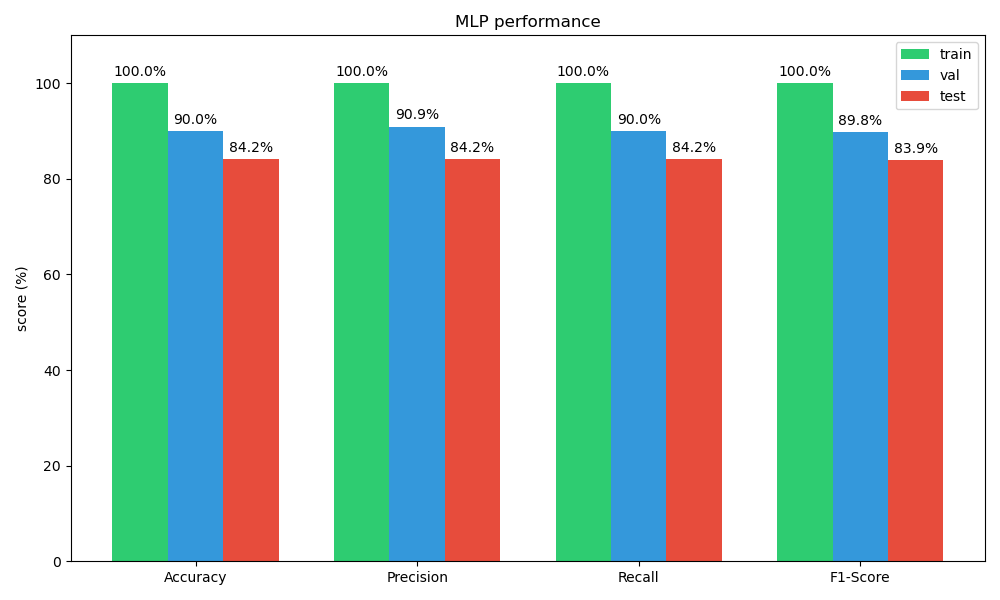
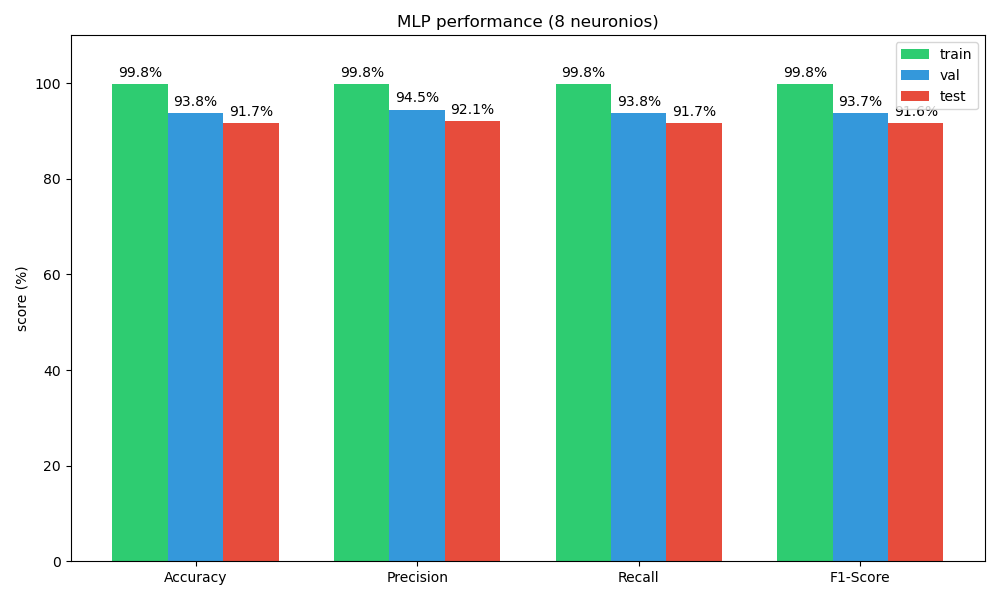
game 2

diff --git a/game2.py b/game2.py
@@ -172,8 +172,18 @@ def predict_ensemble(models, board, metrics, true_class):
     saida += f"[PREVISÃO DO ENSEMBLE]   => {resultado_final}\n"
     saida += f"[Votos Individuais] {detalhes}\n\n"
 
+    # saida += "--- PLACAR DE DESEMPENHO DA IA ---\n"
+    # # Printa o Ensemble primeiro, depois os modelos individuais
+    # ordem_print = ["Ensemble"] + [m[0] for m in models]
+    # for name in ordem_print:
+    #     if name in metrics:
+    #         acertos = metrics[name]["acertos"]
+    #         erros = metrics[name]["erros"]
+    #         total = acertos + erros
+    #         acc = (acertos / total) * 100 if total > 0 else 0
+    #         saida += f" {name:<15}: Acertos: {acertos:<2} | Erros: {erros:<2} | Acurácia: {acc:05.1f}%\n"
+
     saida += "--- PLACAR DE DESEMPENHO DA IA ---\n"
-    # Printa o Ensemble primeiro, depois os modelos individuais
     ordem_print = ["Ensemble"] + [m[0] for m in models]
     for name in ordem_print:
         if name in metrics:
@@ -183,7 +193,7 @@ def predict_ensemble(models, board, metrics, true_class):
             acc = (acertos / total) * 100 if total > 0 else 0
             saida += f" {name:<15}: Acertos: {acertos:<2} | Erros: {erros:<2} | Acurácia: {acc:05.1f}%\n"
 
-    return saida
+    return saida, vencedor_voto
 
 
 # --- LÓGICA DO JOGO ---
@@ -275,42 +285,42 @@ def play():
     # Imprime o tabuleiro vazio inicial e já faz a primeira predição do Ensemble
     print_board(board)
     true_class = get_true_class(board)
-    print(predict_ensemble(models, board, metrics, true_class))
+    #print(predict_ensemble(models, board, metrics, true_class))
+
+
+    out_text, ia_decision = predict_ensemble(models, board, metrics, true_class)
+    print(out_text)
 
     while True:
-        # ==========================================
-        # 1. TURNO DO JOGADOR (X)
-        # ==========================================
         player_move(board)
         print_board(board)
 
-        # Avalia o tabuleiro  após a sua jogada
         true_class = get_true_class(board)
-        print(predict_ensemble(models, board, metrics, true_class))
+        # print(predict_ensemble(models, board, metrics, true_class))
 
-        # Verifica se a sua jogada encerrou o jogo
-        if true_class == 0:
-            print("\n🎉 FIM DE JOGO! Você venceu o jogo!")
-            break
-        elif true_class == 2:
-            print("\n🤝 FIM DE JOGO! Deu velha! (Empate)")
+
+        out_text, ia_decision = predict_ensemble(models, board, metrics, true_class)
+        print(out_text)
+
+        if ia_decision != 3:
+            print(f"\n[x] IA decretou o FIM do jogo: {TARGET_CLASSES[ia_decision]}")
+            if ia_decision != true_class:
+                print(f"[!] A IA errou. true state do jogo era=: {TARGET_CLASSES[true_class]}")
             break
 
-        # ==========================================
-        # 2. TURNO DA MÁQUINA (O)
-        # ==========================================
+        # =============================
+        # essa parte eh o turno da maquina
         random_ai_move(board)
         print_board(board)
 
-        # Avalia o tabuleiro após a jogada da IA
         true_class = get_true_class(board)
-        print(predict_ensemble(models, board, metrics, true_class))
+        out_text, ia_decision = predict_ensemble(models, board, metrics, true_class)
+        print(out_text)
 
-        if true_class == 1:
-            print("\n💀 FIM DE JOGO! A IA venceu o jogo!")
-            break
-        elif true_class == 2:
-            print("\n🤝 FIM DE JOGO! Deu velha! (Empate)")
+        if ia_decision != 3: 
+            print(f"\n[x] IA decretou o FIM do jogo: {TARGET_CLASSES[ia_decision]}")
+            if ia_decision != true_class:
+                print(f"[!] A IA errou. true state do jogo era=: {TARGET_CLASSES[true_class]}")
             break
 
 

diff --git a/Models/MLP/plots.py b/Models/MLP/plots.py
@@ -4,9 +4,9 @@ import numpy as np
 # dados hardcoded da primeira run. 
 # TODO: talvez deva rodar de novo se preciso
 labels = ['Accuracy', 'Precision', 'Recall', 'F1-Score']
-training_vals = [100.00, 100.00, 100.00, 100.00]
-validation_vals = [90.00, 90.93, 90.00, 89.76]
-test_vals = [84.17, 84.17, 84.17, 83.88]
+training_vals = [99.83, 99.83, 99.83, 99.83]
+validation_vals = [93.75, 94.47, 93.75, 93.72]
+test_vals = [91.67, 92.08, 91.67, 91.62]
 
 x = np.arange(len(labels))
 width = 0.25
@@ -18,7 +18,7 @@ rects2 = ax.bar(x, validation_vals, width, label='val', color='#3498db')
 rects3 = ax.bar(x + width, test_vals, width, label='test', color='#e74c3c')
 
 ax.set_ylabel('score (%)')
-ax.set_title('MLP performance')
+ax.set_title('MLP performance (8 neuronios)')
 ax.set_xticks(x)
 ax.set_xticklabels(labels)
 ax.set_ylim(0, 110)
